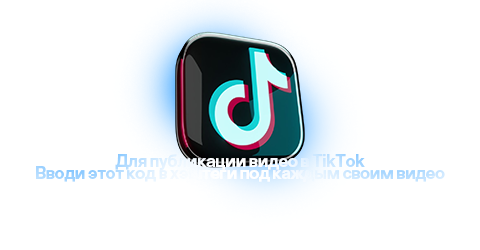
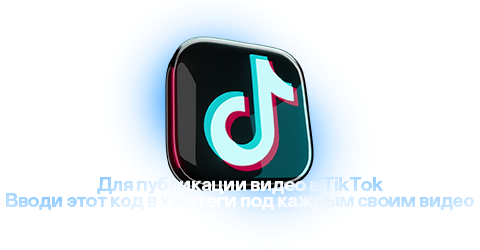
new

Changed region(s): [[0.0, 0.112, 1.0, 0.868]]

diff --git a/admin/admin.tsx b/admin/admin.tsx
@@ -225,7 +225,6 @@ function AdminPanel() {
         type: 'STREAMER',
         imageUrl: '',
         avatarUrl: '',
-        bannerUrl: '',
         totalBudget: '',
         cpmRate: '',
         language: 'Russian',
@@ -235,8 +234,12 @@ function AdminPanel() {
         assetsLink: '',
         daysLeft: '30'
     });
-    const [bannerFile, setBannerFile] = useState<File | null>(null);
-    const [bannerPreview, setBannerPreview] = useState<string>('');
+
+    // File upload states
+    const [imageFile, setImageFile] = useState<File | null>(null);
+    const [imagePreview, setImagePreview] = useState<string>('');
+    const [avatarFile, setAvatarFile] = useState<File | null>(null);
+    const [avatarPreview, setAvatarPreview] = useState<string>('');
     const [isUploading, setIsUploading] = useState(false);
 
     // Check auth on mount
@@ -354,18 +357,22 @@ function AdminPanel() {
         try {
             setIsUploading(true);
 
-            // Upload banner file if selected
-            let bannerUrl = offerForm.bannerUrl;
-            if (bannerFile) {
-                bannerUrl = await uploadFile(bannerFile);
-                finalBannerUrl = await uploadFile(bannerFile);
+            let finalImageUrl = offerForm.imageUrl;
+            let finalAvatarUrl = offerForm.avatarUrl;
+
+            // Upload files if selected
+            if (imageFile) {
+                finalImageUrl = await uploadFile(imageFile);
+            }
+            if (avatarFile) {
+                finalAvatarUrl = await uploadFile(avatarFile);
             }
 
             const payload = {
                 ...offerForm,
                 imageUrl: finalImageUrl,
                 avatarUrl: finalAvatarUrl,
-                bannerUrl: finalBannerUrl,
+                bannerUrl: '', // Deprecated
                 totalBudget: Number(offerForm.totalBudget),
                 cpmRate: Number(offerForm.cpmRate),
                 daysLeft: Number(offerForm.daysLeft),
@@ -387,7 +394,7 @@ function AdminPanel() {
             setShowOfferForm(false);
             setEditingOfferId(null);
             setOfferForm({
-                name: '', title: '', type: 'STREAMER', imageUrl: '', avatarUrl: '', bannerUrl: '',
+                name: '', title: '', type: 'STREAMER', imageUrl: '', avatarUrl: '',
                 totalBudget: '', cpmRate: '', language: 'Russian', platforms: ['youtube', 'tiktok', 'instagram'],
                 description: '', requirements: '', assetsLink: '', daysLeft: '30'
             });
@@ -396,10 +403,9 @@ function AdminPanel() {
             setImagePreview('');
             setAvatarFile(null);
             setAvatarPreview('');
-            setBannerFile(null);
-            setBannerPreview('');
             loadData();
         } catch (error: any) {
+            console.error('Failed to save offer:', error);
             alert(error.message || 'Ошибка при сохранении оффера');
         } finally {
             setIsUploading(false);

diff --git a/components/ClipsView.tsx b/components/ClipsView.tsx
@@ -266,13 +266,13 @@ export const ClipsView: React.FC<ClipsViewProps> = ({ campaigns }) => {
             <div className="relative z-10 w-full mb-8 px-1">
                 <button
                     onClick={() => setActiveModal('verification')}
-                    className="w-full relative group overflow-hidden rounded-[24px] shadow-2xl shadow-blue-900/20 active:scale-[0.98] transition-transform"
+                    className="w-full relative group overflow-hidden rounded-[24px] shadow-2xl shadow-blue-900/20 active:scale-[0.98] transition-transform bg-zinc-900"
                 >
-                    <div className="absolute inset-0 bg-black/40 z-10 pointer-events-none transition-colors group-hover:bg-black/30"></div>
+                    <div className="absolute inset-0 bg-black/40 z-0 pointer-events-none transition-colors group-hover:bg-black/30"></div>
                     <img
                         src="/images/starclip-code.png"
                         alt="Получить код верификации"
-                        className="w-full h-auto object-cover relative z-0 scale-[1.02] group-hover:scale-105 transition-transform duration-500"
+                        className="w-full h-auto object-cover relative z-10 scale-[1.02] group-hover:scale-105 transition-transform duration-500"
                     />
                 </button>
             </div>
